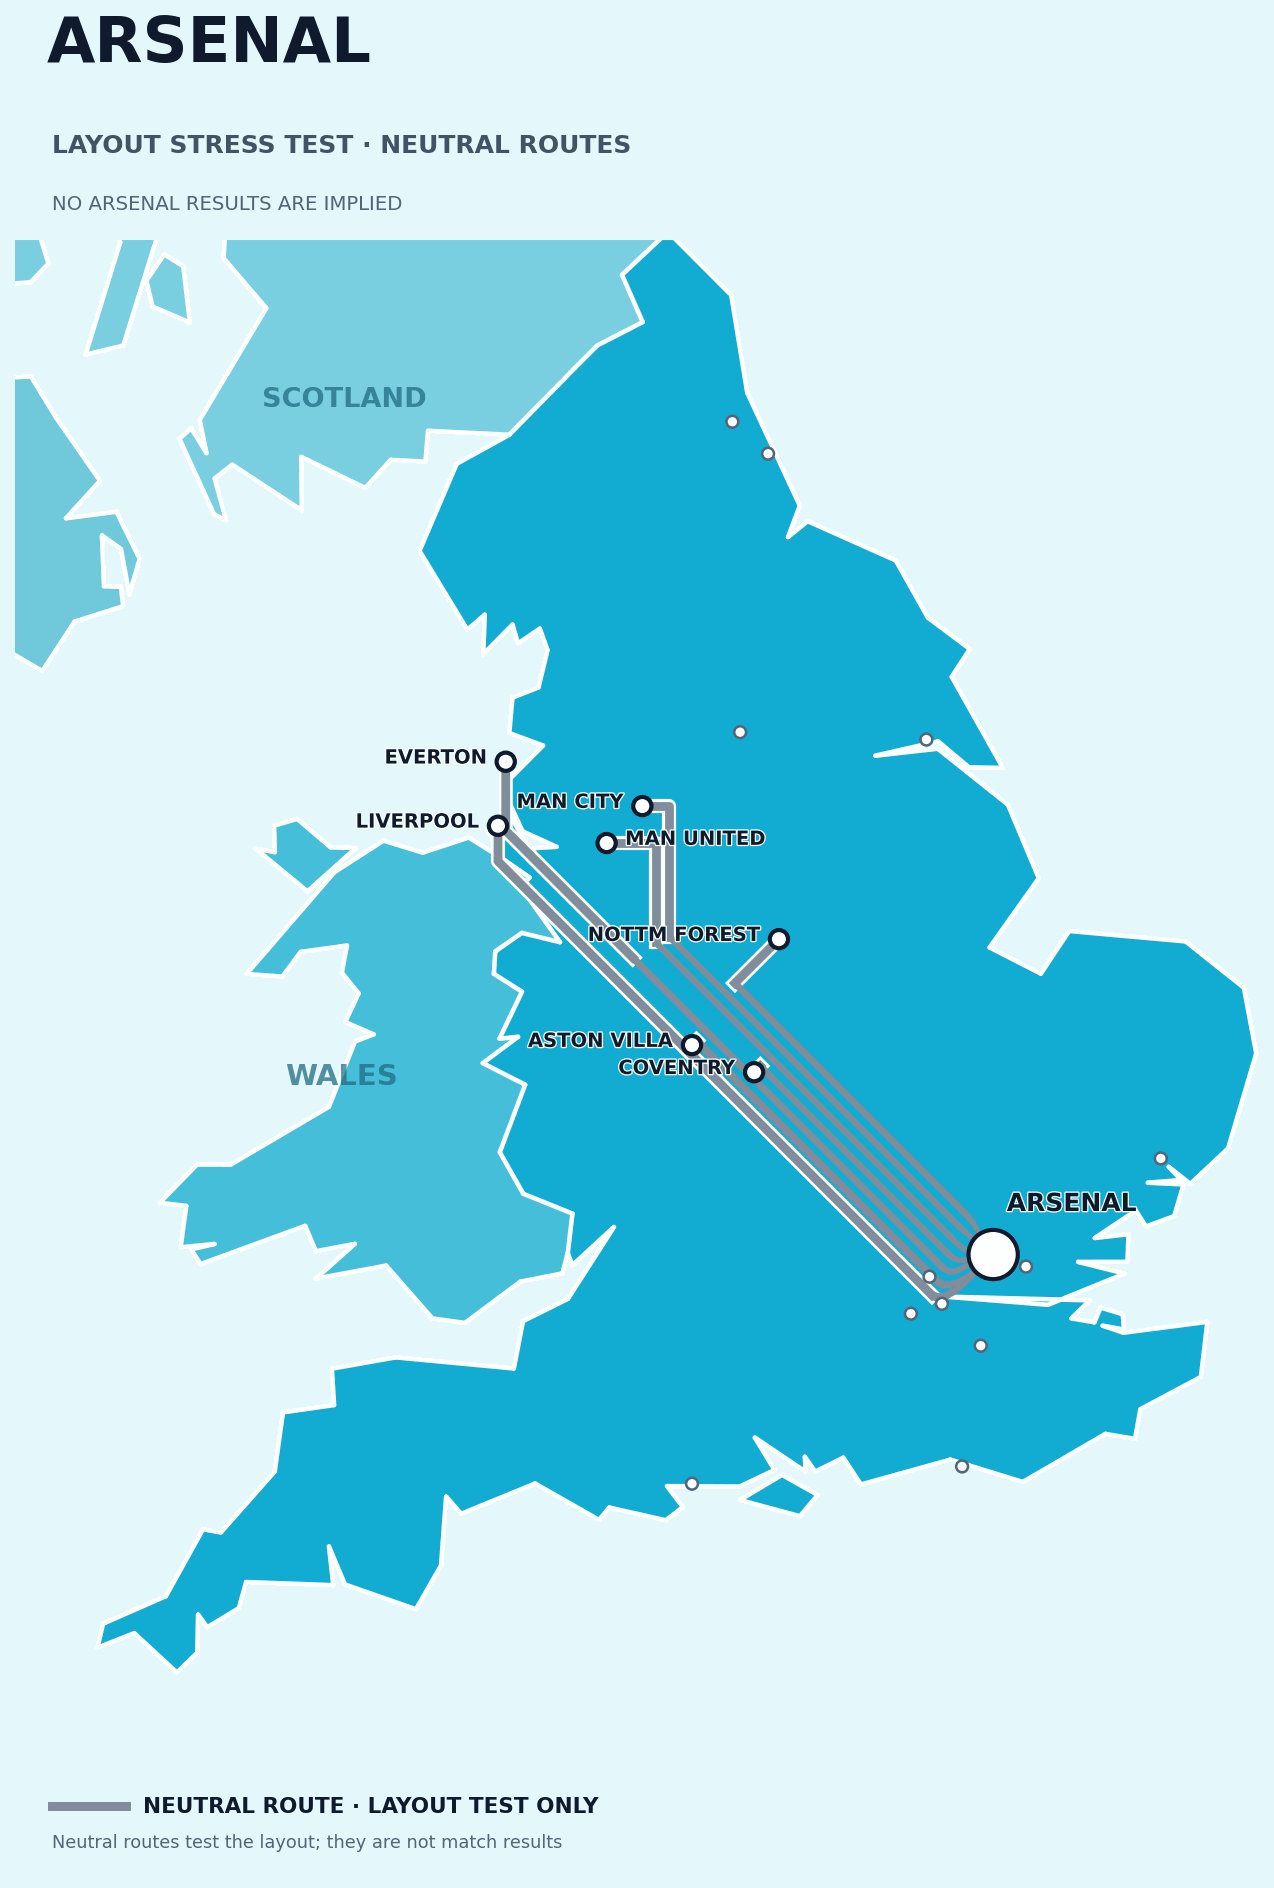
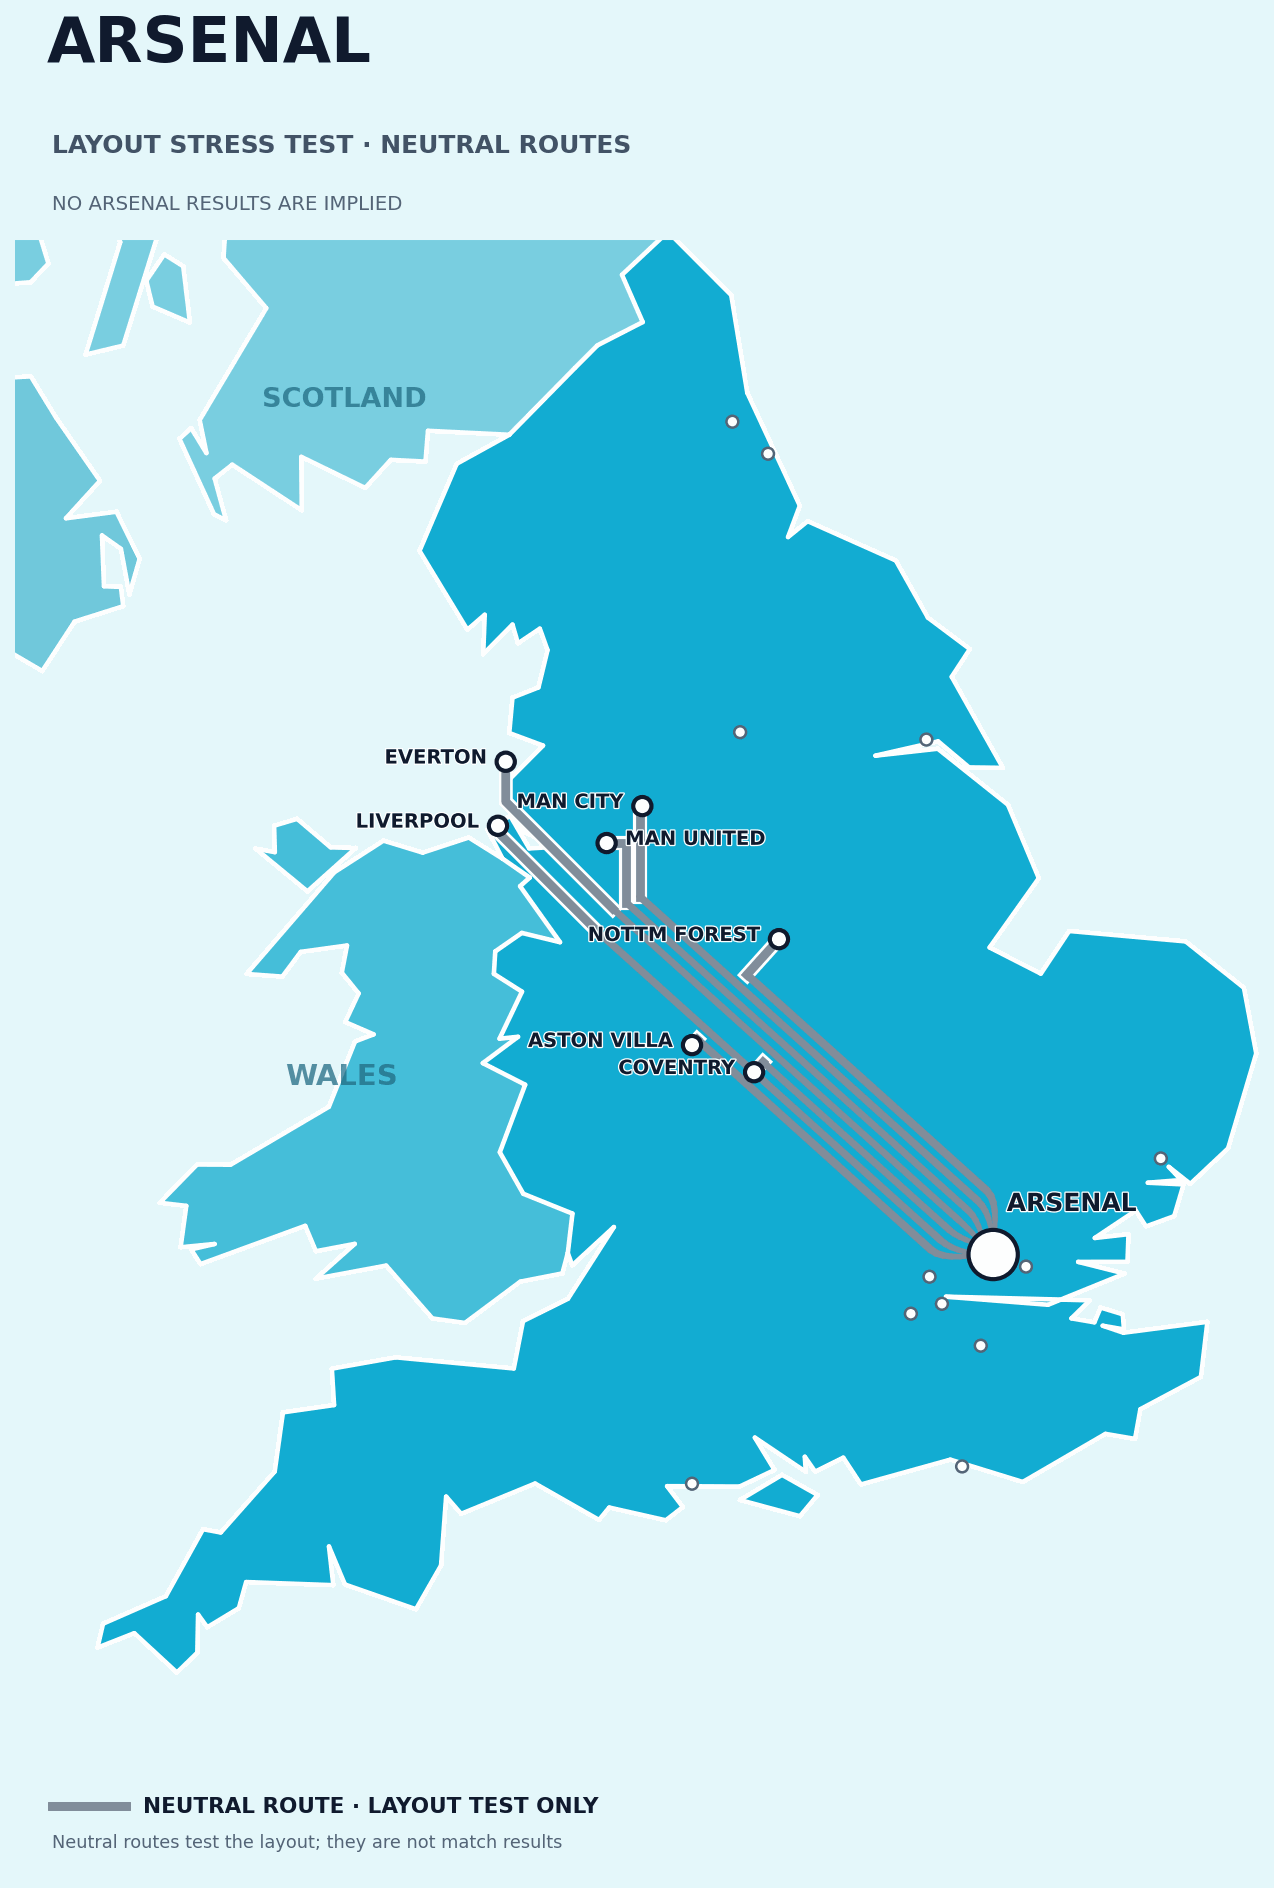
Improve reusable sector routing and add full Arsenal stress test

Changed region(s): [[0.3673, 0.4062, 0.7959, 0.6875]]

diff --git a/EPL_Subway_Map/_1_SM_Man_City_v2.py b/EPL_Subway_Map/_1_SM_Man_City_v2.py
@@ -101,11 +101,11 @@ def draw_geography(ax):
 def sector(origin,p):
     dx,dy=p-origin
     if dy>0 and dy>abs(dx)*.4:
-        if dx<-.5*dy: return 'NW'
+        if dx<-.65*dy: return 'NW'
         if dx>.5*dy: return 'NE'
         return 'N'
     if dx<0 and (abs(dy)<abs(dx)*.45 or
-                 (np.linalg.norm(p-origin)<.3 and abs(dy)<abs(dx)*1.2)):
+                 (np.linalg.norm(p-origin)<.45 and abs(dy)<abs(dx)*1.2)):
         return 'W'
     if dy<0 and abs(dx)<abs(dy)*.48: return 'S'
     if dx>0 and dy<0: return 'SE'
@@ -163,6 +163,65 @@ def crossings(routes,hub):
                         result.append((a,b))
     return result
 
+def station_intrusions(routes,positions,hub):
+    """Find tracks that pass through an unrelated station's clearance area."""
+    hits=[]; active=set(routes)
+    for name,line in routes.items():
+        for other,p in positions.items():
+            if other in (name,hub): continue
+            clearance=.055 if other in active else .043
+            best=float('inf')
+            for a,b in zip(line,line[1:]):
+                d=b-a; den=np.dot(d,d)
+                if den<1e-12: continue
+                t=np.clip(np.dot(p-a,d)/den,0,1)
+                best=min(best,np.linalg.norm(p-(a+t*d)))
+            if best<clearance: hits.append((name,other))
+    return hits
+
+def route_score(routes,positions,hub):
+    return 100*len(crossings(routes,positions[hub]))+10*len(station_intrusions(routes,positions,hub))
+
+def repair_station_intrusions(routes,positions,hub):
+    """Try short 45-degree jogs around remaining unrelated stations."""
+    routes={n:p.copy() for n,p in routes.items()}
+    for _ in range(8):
+        hits=station_intrusions(routes,positions,hub)
+        if not hits: break
+        baseline=route_score(routes,positions,hub)
+        best=None
+        for name,other in hits:
+            line=routes[name]; point=positions[other]
+            near=(float('inf'),None,None)
+            for i,(a,b) in enumerate(zip(line,line[1:])):
+                d=b-a; den=np.dot(d,d)
+                if den<1e-12: continue
+                t=np.clip(np.dot(point-a,d)/den,0,1);q=a+t*d
+                distance=np.linalg.norm(point-q)
+                if distance<near[0]: near=(distance,i,q)
+            _,i,q=near
+            if i is None: continue
+            a,b=line[i:i+2];u=norm(b-a);n=np.array([-u[1],u[0]])
+            span=min(.15,np.linalg.norm(q-a)*.8,np.linalg.norm(b-q)*.8)
+            if span<.045: continue
+            for sign in (-1,1):
+                for height in (.07,.10,.14):
+                    if height>span: continue
+                    entry=q-u*span;exit=q+u*span
+                    # Sloped ramps are 45 degrees relative to the original
+                    # octilinear track; the middle stays parallel to it.
+                    ramp=height
+                    detour=np.array([entry,entry+u*ramp+n*sign*height,
+                                     exit-u*ramp+n*sign*height,exit])
+                    candidate=np.vstack([line[:i+1],detour,line[i+1:]])
+                    trial=routes.copy();trial[name]=candidate
+                    score=route_score(trial,positions,hub)
+                    if score<baseline and (best is None or score<best[0]):
+                        best=(score,name,candidate)
+        if best is None: break
+        _,name,candidate=best;routes[name]=candidate
+    return routes
+
 def declutter_nodes(positions,hub,played):
     """Separate colliding stations with bounded, deterministic displacement."""
     out={name:p.copy() for name,p in positions.items()}
@@ -194,29 +253,48 @@ def declutter_nodes(positions,hub,played):
         if not moved: break
     return out
 
-def build_routes(hub,positions,rows):
+def _build_routes(hub,positions,rows,assignments,adjustments=None):
     o=positions[hub]; groups=defaultdict(list)
-    for row in rows: groups[sector(o,positions[row['opponent']])].append(row)
+    adjustments=adjustments or {}
+    for row in rows:
+        name=row['opponent']
+        groups[assignments[name]].append(row)
     routes={}; templates={}; lanes={}; group_names={}
     for direction,items in groups.items():
         dests=np.array([positions[r['opponent']] for r in items])
         if direction in ('SE','NE','SW','NW'):
             sx=1 if 'E' in direction else -1
             sy=1 if 'N' in direction else -1
-            x=float(np.median(dests[:,0])); elbow=np.array([o[0]+sx*.18,o[1]])
+            x=float(np.median(dests[:,0])+adjustments.get(direction,0))
+            if direction=='SW':
+                elbow=np.array([o[0],o[1]-.20])
+            elif sx<0:
+                elbow=np.array([o[0]+sx*.14,o[1]+sy*.14])
+            else:
+                elbow=np.array([o[0]+sx*.18,o[1]])
             spine=np.array([o,elbow,(x,o[1]+sy*abs(x-elbow[0])),
                             (x,max(dests[:,1]) if sy>0 else min(dests[:,1]))])
-            ordered=sorted(items,key=lambda r:positions[r['opponent']][0],reverse=sx<0)
+            if direction=='NW':
+                ordered=sorted(items,key=lambda r:-sum(positions[r['opponent']]))
+            else:
+                ordered=sorted(items,key=lambda r:positions[r['opponent']][0],reverse=sx<0)
         elif direction=='S':
-            x=float(np.median(dests[:,0])+.08); y=o[1]-.30
+            x=float(np.median(dests[:,0])+.08+adjustments.get(direction,0)); y=o[1]-.30
             spine=np.array([o,(o[0],y),(x,y-(x-o[0])),(x,min(dests[:,1]))])
             ordered=sorted(items,key=lambda r:(positions[r['opponent']][0],-positions[r['opponent']][1]))
         elif direction=='N':
-            x=float(np.median(dests[:,0])); y=o[1]+.25
-            spine=np.array([o,(o[0],y),(x,y+abs(x-o[0])),(x,max(dests[:,1]))])
+            x=float(np.median(dests[:,0])+adjustments.get(direction,0)); y=o[1]+.60
+            if 'NW' in groups and x<o[0]:
+                # Keep the north fan on the opposite side of a northwest fan.
+                right=o[0]+.12
+                spine=np.array([o,(right,o[1]+.12),(right,y),
+                                (x,y+abs(x-right)),(x,max(dests[:,1]))])
+            else:
+                spine=np.array([o,(o[0],y),(x,y+abs(x-o[0])),(x,max(dests[:,1]))])
             ordered=sorted(items,key=lambda r:positions[r['opponent']][0])
         elif direction=='W':
-            x=float(min(dests[:,0])); spine=np.array([o,(o[0]-.10,o[1]+.10),(x,o[1]+.10)])
+            x=float(min(dests[:,0])); level=o[1]+adjustments.get(direction,0)
+            spine=np.array([o,(o[0]-.15,level),(x,level)])
             ordered=sorted(items,key=lambda r:-positions[r['opponent']][1])
         else:
             ordered=sorted(items,key=lambda r:positions[r['opponent']][0])
@@ -263,6 +341,48 @@ def build_routes(hub,positions,rows):
             c,d=templates[name]; rail=offset_rail(c,lanes[name])
             routes[name]=np.vstack([rail,*connect_octilinear(rail[-1],d)])
     return routes
+
+def build_routes(hub,positions,rows):
+    """Choose sectors and lanes by crossing score, without club exceptions."""
+    o=positions[hub]
+    sectors={r['opponent']:sector(o,positions[r['opponent']]) for r in rows}
+    routes=_build_routes(hub,positions,rows,sectors)
+    for _ in range(4):
+        old_crossings=crossings(routes,o)
+        if not old_crossings: break
+        old_length=sum(np.linalg.norm(np.diff(p,axis=0),axis=1).sum() for p in routes.values())
+        best=None
+        for a,b in set(old_crossings):
+            for name,other in ((a,b),(b,a)):
+                if sectors[name]==sectors[other]: continue
+                trial_sectors=sectors.copy();trial_sectors[name]=sectors[other]
+                trial_routes=_build_routes(hub,positions,rows,trial_sectors)
+                trial_score=len(crossings(trial_routes,o))
+                trial_length=sum(np.linalg.norm(np.diff(p,axis=0),axis=1).sum()
+                                 for p in trial_routes.values())
+                if trial_length>old_length*1.18: continue
+                if trial_score<len(old_crossings) and (best is None or trial_score<best[0]):
+                    best=(trial_score,trial_sectors,trial_routes)
+        if best is None: break
+        _,sectors,routes=best
+    # Shift shared spines by small fixed increments to clear nearby stations.
+    adjustments={}; directions=set(sectors.values())
+    def quality(r):
+        length=sum(np.linalg.norm(np.diff(p,axis=0),axis=1).sum() for p in r.values())
+        return route_score(r,positions,hub)+.02*length
+    for _ in range(2):
+        if not station_intrusions(routes,positions,hub): break
+        baseline=quality(routes); best=None
+        for direction in directions:
+            for shift in (-.12,-.06,.06,.12):
+                trial_adjust=adjustments.copy();trial_adjust[direction]=shift
+                trial=_build_routes(hub,positions,rows,sectors,trial_adjust)
+                score=quality(trial)
+                if score<baseline and (best is None or score<best[0]):
+                    best=(score,trial_adjust,trial)
+        if best is None: break
+        _,adjustments,routes=best
+    return repair_station_intrusions(routes,positions,hub)
 
 def smooth_departure(points,hub):
     if len(points)<2: return points
@@ -338,13 +458,14 @@ def draw_labels(ax,hub,positions,rows):
             ax.text(q[0],q[1],played[name]['venue'][0],fontsize=8,
                     weight='bold',color='#304357',zorder=10)
 
-def render(hub='Man City',demo=False):
+def render(hub='Man City',demo=False,demo_all=False):
     positions={n:data.club_xy(n,9) for n in data.CLUBS}
     positions.update({n:xy(*v) for n,v in data.UNPLAYED_07.items()})
     demo_targets=('Man City','Man United','Liverpool','Everton',
                   'Aston Villa','Coventry','Nottm Forest')
+    targets=[n for n in positions if n!=hub] if demo_all else demo_targets
     rows=data.load_matches() if not demo else [dict(opponent=n,result='D',venue='')
-                                           for n in demo_targets]
+                                           for n in targets]
     positions=declutter_nodes(positions,hub,{r['opponent'] for r in rows})
     routes=build_routes(hub,positions,rows)
     fig,ax=plt.subplots(figsize=(10.8,16.0),dpi=150)
@@ -373,7 +494,9 @@ def render(hub='Man City',demo=False):
     footer=('Neutral routes test the layout; they are not match results' if demo else
             'H / A = City home / away  ·  small dots = unplayed')
     ax.text(.25,-.45,footer,fontsize=8.5,color='#526478',zorder=12)
-    target=OUT/('10_v2_rule_based_man_city.png' if not demo else '10_v2_arsenal_cluster_test.png')
+    target=OUT/('10_v2_rule_based_man_city.png' if not demo else
+               '10_v2_arsenal_full_stress_test.png' if demo_all else
+               '10_v2_arsenal_cluster_test.png')
     fig.savefig(target,dpi=150,bbox_inches='tight',pad_inches=.1,facecolor=SEA)
     plt.close(fig)
     return target,routes
@@ -382,6 +505,8 @@ if __name__=='__main__':
     parser=argparse.ArgumentParser(description=__doc__)
     parser.add_argument('--demo-arsenal',action='store_true',
                         help='draw a neutral seven-route cluster test, not results')
+    parser.add_argument('--demo-arsenal-all',action='store_true',
+                        help='draw neutral routes to all 19 Arsenal opponents')
     parser.add_argument('--check',action='store_true',
                         help='check City and Arsenal routes and shared borders')
     args=parser.parse_args()
@@ -402,8 +527,13 @@ if __name__=='__main__':
                  'Aston Villa','Coventry','Nottm Forest')
         arsenal_pos=declutter_nodes(positions,'Arsenal',set(cluster))
         arsenal=build_routes('Arsenal',arsenal_pos,[{'opponent':n} for n in cluster])
+        full_names=[n for n in positions if n!='Arsenal']
+        full_pos=declutter_nodes(positions,'Arsenal',set(full_names))
+        full=build_routes('Arsenal',full_pos,[{'opponent':n} for n in full_names])
         assert not crossings(city,city_pos['Man City'])
         assert not crossings(arsenal,arsenal_pos['Arsenal'])
+        assert not crossings(full,full_pos['Arsenal'])
+        assert not station_intrusions(city,city_pos,'Man City')
         for hub,pos,played in (('Man City',city_pos,{r['opponent'] for r in city_rows}),
                                ('Arsenal',arsenal_pos,set(cluster))):
             for a,b in combinations(pos,2):
@@ -411,8 +541,14 @@ if __name__=='__main__':
                 rb=.10 if b==hub else .038 if b in played else .024
                 assert np.linalg.norm(pos[a]-pos[b])>=ra+rb+.015,(hub,a,b)
         print('Shared border edges:',sum(len(v)>1 for v in edges.values()))
-        print('City: 11 routes, 0 crossings; Arsenal cluster: 7 routes, 0 crossings')
-        print('Both layouts: no station-circle collisions')
+        print('City: 11 routes; Arsenal cluster: 7; Arsenal full layout: 19; 0 crossings each')
+        print('Arsenal cluster: unrelated station intrusions:',
+              station_intrusions(arsenal,arsenal_pos,'Arsenal'))
+        print('Full Arsenal stress test: unrelated station intrusions:',
+              station_intrusions(full,full_pos,'Arsenal'))
+        print('City: no unrelated station intrusion; both hubs: no station-circle collision')
     print(render()[0])
     if args.demo_arsenal:
         print(render('Arsenal',demo=True)[0])
+    if args.demo_arsenal_all:
+        print(render('Arsenal',demo=True,demo_all=True)[0])

diff --git a/EPL_Subway_Map/V2_DESIGN.md b/EPL_Subway_Map/V2_DESIGN.md
@@ -20,9 +20,11 @@ change or reuse that script's hand-set route geometry.
    ordered into equally spaced parallel lanes by destination position.
    Routes follow the spine until the nearest sensible branch point; small
    0°/45°/90° connectors finish at each club.
-4. **Crossings.** A lane-swap search minimizes intersections across the whole
-   route graph. `crossings()` reports any remaining intersections outside the
-   hub circle. The algorithm does not yet guarantee a planar layout.
+4. **Crossings and clearance.** A lane-swap search minimizes intersections
+   across the whole route graph. When necessary, the algorithm tries an
+   adjacent compass sector and small corridor shifts, scoring crossings and
+   station clearance. `crossings()` and `station_intrusions()` report remaining
+   problems. The search does not guarantee a fully clear layout.
 5. **Stations, hub fan, and labels.** `declutter_nodes()` gives overlapping
    stations a bounded, deterministic push while keeping the hub fixed. A short
    cubic easing and gradual line-width increase bring tracks out from under
@@ -37,18 +39,22 @@ change or reuse that script's hand-set route geometry.
 ```sh
 python _1_SM_Man_City_v2.py --check
 python _1_SM_Man_City_v2.py --demo-arsenal
+python _1_SM_Man_City_v2.py --demo-arsenal-all
 ```
 
 The first command writes `outputs/10_v2_rule_based_man_city.png` and checks
-the shared borders and route crossings. The optional second command also
-writes `outputs/10_v2_arsenal_cluster_test.png`. Arsenal's seven gray lines
-are **neutral layout probes, not Arsenal match results**.
+the shared borders, route crossings, and station circles. The optional
+commands also write `outputs/10_v2_arsenal_cluster_test.png` (seven routes)
+or `outputs/10_v2_arsenal_full_stress_test.png` (19 routes). All Arsenal
+lines are **neutral layout probes, not Arsenal match results**.
 
-The current checks find zero crossings for City's 11 completed matches and
-the seven-route Arsenal cluster. A diagnostic with **all 19 neutral Arsenal
-opponents** still produces 18 crossing pairs. Thus the engine is reusable for
-another hub and a dense cluster, while a complete second-club network still
-needs better branch selection and local-node decluttering. For another
-country, supply positions and match rows to `build_routes`, and a compatible
-administrative GeoJSON to `topological_countries`; the renderer's fills,
-annotations, and frame would need that country's settings.
+The current checks find zero crossings and no unrelated station intrusions
+for City's 11 completed matches. The seven-route Arsenal cluster has zero
+line crossings but one route passes too near an unrelated station. The full
+19-route neutral Arsenal stress test also has zero proper line crossings,
+while **two routes still pass too near unrelated stations**. The full test is
+useful for finding these limits and is not a polished Arsenal results map.
+For another country, supply positions and match rows to
+`build_routes`, and a compatible administrative GeoJSON to
+`topological_countries`; the renderer's fills, annotations, and frame need
+that country's settings.

diff --git a/EPL_Subway_Map/README.md b/EPL_Subway_Map/README.md
@@ -31,8 +31,9 @@ The original `_1_SM_Man_City.py` remains intact. The separate
 `_1_SM_Man_City_v2.py` tests calculated corridor, lane, branch, label, and
 shared-border rules. Its City output is `10_v2_rule_based_man_city.png`;
 `--demo-arsenal` writes a neutral seven-route Arsenal layout test, not Arsenal
-results. See [V2_DESIGN.md](V2_DESIGN.md) for the rules, checks, and current
-limits. Run `python _1_SM_Man_City_v2.py --check` for the geometry audit.
+results. `--demo-arsenal-all` runs a 19-route neutral stress test. See
+[V2_DESIGN.md](V2_DESIGN.md) for the rules, checks, and remaining station
+clearance limits. Run `python _1_SM_Man_City_v2.py --check` for the audit.
 
 The drawn lines are **diagrammatic**, not road, rail, or travel routes. Stadium markers remain near their real locations but are separated slightly where needed. In stages 07–09, the southeast routes share a diagonal trunk past the Nottingham area; the Fulham, Palace, and Brighton tracks stay parallel almost to Fulham. In stages 08–09, Villa, Bournemouth, and Coventry share the southbound trunk nearly to Villa, where the outer lanes branch and Bournemouth carries on between them. Stage 09 reduces the southbound lane spacing to match the southeast bundle and simplifies the coastline and internal borders at the map's display scale. Westbound routes leave City in adjacent lanes. Long segments are horizontal, vertical, or 45° diagonals; only tiny station connectors use other angles. White casings separate adjacent tracks. The outline of Ireland in stages 1–5 comes from [johan/world.geo.json](https://github.com/johan/world.geo.json), derived from Natural Earth public-domain data. The revised map's [UK country boundaries](data/uk-countries.geojson) are from [GeoDataViewer's UK Countries Boundaries](https://geodataviewer.com/datasets/boundaries/uk-countries-boundaries/) (CC BY 4.0; original administrative boundaries: ©EuroGeographics ©UN-FAO ©Turkstat, via Eurostat GISCO).
 
